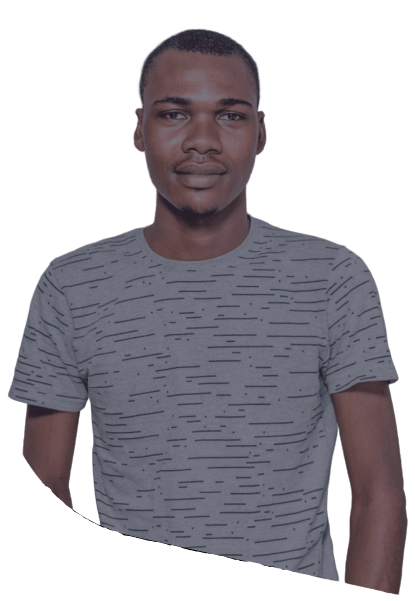
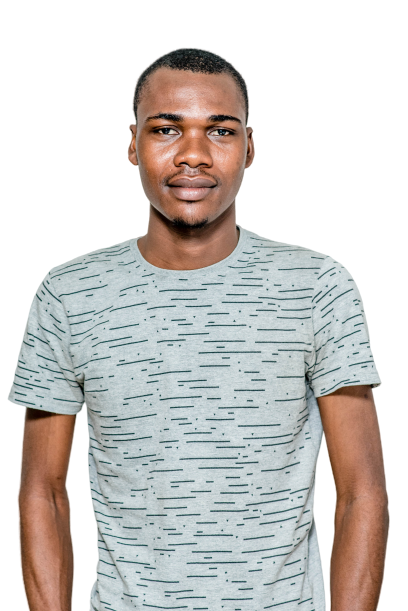
mobile responsiveness

diff --git a/components/Header.js b/components/Header.js
@@ -9,10 +9,12 @@ const Header = () => {
     <div className="container relative">
       <header className="header">
         <h2 className="logo">
+          <span className="blue">&lt;</span>
           <span>AHM</span>
-          <span className="dot1">.</span>
+          <span className="blue">/&gt;</span>
+          {/* <span className="dot1">.</span>
           <span className="dot2">.</span>
-          <span className="dot3">.</span>
+          <span className="dot3">.</span> */}
         </h2>
         <nav className={mobile ? "mobile nav" : "nav"}>
           <a href="#" className="nav-item">
@@ -32,6 +34,9 @@ const Header = () => {
           <div className={mobile ? "animate mobile-menu" : "mobile-menu"}></div>
         </button>
         <style jsx>{`
+          .blue {
+            // color: var(--blue);
+          }
           .dot {
             display: inline-block;
           }
@@ -43,7 +48,9 @@ const Header = () => {
           .logo {
             margin: 0;
             margin-right: 40px;
-            font-family: "Montserrat", sans-serif;
+            font-family: "Fira Code", monospace;
+            font-size: 1.8rem;
+            margin-top: -5px;
           }
           .nav {
             display: flex;

diff --git a/pages/index.js b/pages/index.js
@@ -189,14 +189,14 @@ const Home = () => {
           @media (max-width: 459px) {
             .intro-cover {
               background: linear-gradient(
-                  rgba(0, 0, 0, 0.8),
-                  rgba(0, 0, 0, 0.8)
+                  rgba(0, 0, 0, 0.5) 10%,
+                  rgba(0, 0, 0, 1) 60%
                 ),
                 url("me1.png");
               width: 100%;
               background-repeat: no-repeat;
               background-size: cover;
-              background-position: -50% -50x;
+              background-position: -65% -90px;
             }
           }
           .about-wrapper {

diff --git a/pages/_document.js b/pages/_document.js
@@ -16,6 +16,10 @@ export default class MyDocument extends Document {
             href="https://fonts.googleapis.com/css?family=Montserrat:600&display=swap"
             rel="stylesheet"
           ></link>
+          <link
+            href="https://fonts.googleapis.com/css2?family=Fira+Code:wght@500&display=swap"
+            rel="stylesheet"
+          ></link>
           {/* <link
             rel="stylesheet"
             href="https://unpkg.com/swiper/css/swiper.min.css"
